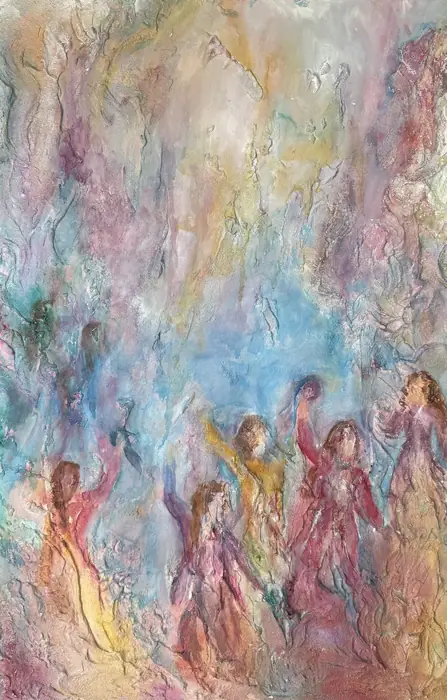
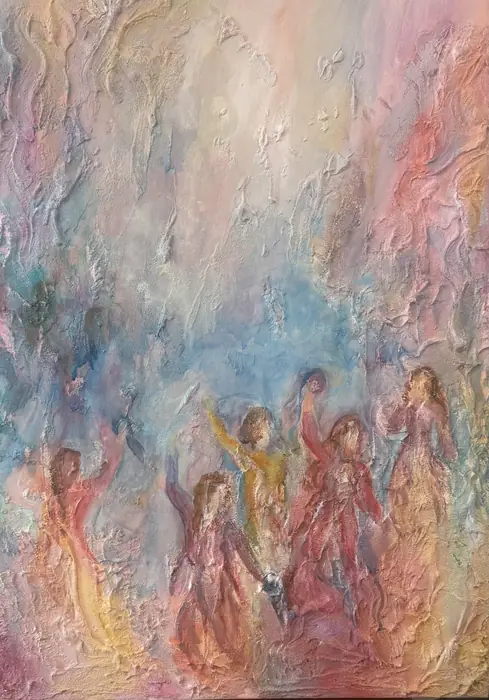
update

diff --git a/index.html b/index.html
@@ -755,8 +755,10 @@ a { color:inherit; }
 /* A wide, landscape plate sitting in the middle of the page and the middle
    of the text, the same treatment as the about-preview strip on the home
    page — the source image is cropped to this ratio, never stretched. */
-.ab-figure { overflow:hidden; aspect-ratio:21/9; max-width:1100px; margin:3.5rem auto; }
-.ab-figure img { width:100%; height:100%; object-fit:cover; display:block; }
+/* No forced crop here — the painting is shown whole, at its own proportions,
+   simply capped so it doesn't overrun the page. */
+.ab-figure { overflow:hidden; max-width:1100px; margin:3.5rem auto; }
+.ab-figure img { width:100%; height:auto; display:block; }
 .ab-foot { padding-bottom:3rem; }
 
 .cblock { padding:5rem var(--pad-x); text-align:center; border-top:1px solid var(--border); }
@@ -780,8 +782,16 @@ a { color:inherit; }
 /* A true standing column, not a capped box — it stretches to match the
    height of the form beside it, so the painting runs the full length of the
    text rather than sitting as a separate, shorter block above it. */
-.cp-art { overflow:hidden; align-self:stretch; }
-.cp-art img { width:100%; height:100%; object-fit:cover; display:block; }
+/* A true standing column, not a capped box — it stretches to match the
+   height of the form beside it, so the painting runs the full length of the
+   text rather than sitting as a separate, shorter block above it. The
+   painting itself is shown whole: object-fit:contain, never cropped. */
+.cp-art {
+  overflow:hidden; align-self:stretch;
+  display:flex; align-items:center; justify-content:center;
+  background:var(--off);
+}
+.cp-art img { width:100%; height:100%; object-fit:contain; display:block; }
 
 /* The rule under the intro. A hairline spanning the form column, separating
    the title from the fields. */
@@ -921,8 +931,6 @@ a { color:inherit; }
 
   .banner-body    { max-width:none; }
 
-  .ab-figure      { aspect-ratio:16/9; }
-
   .contact-page-wrap { grid-template-columns:1fr; gap:2rem; padding:2.5rem var(--pad-x) 4rem; max-width:460px; }
   .cp-art { aspect-ratio:16/9; }
 
@@ -996,7 +1004,7 @@ a { color:inherit; }
 
   .ab-head { padding:3.5rem 1.25rem 0; }
   .ab-body { padding:2.5rem 1.25rem 0; }
-  .ab-figure { aspect-ratio:4/3; margin:2.5rem auto; }
+  .ab-figure { margin:2.5rem auto; }
   .cblock { padding:3.5rem 1.25rem; }
   .clinks { gap:1.6rem 2rem; }
   .cp-submit { align-self:stretch; text-align:center; }
@@ -1409,11 +1417,11 @@ a { color:inherit; }
       id: 'story', label: 'Story', desc: 'Sacred moments in time', cover: 'four-elements',
       paintings: [
         { img: 'four-elements', title: 'Four Elements', medium: 'Pouring · 60×120 cm',      w: 1600, h: 820 , slug: 'four-elements', desc: '' },
-        { img: 'prayer',        title: 'Prayer',        medium: 'Oil on canvas · 70×40 cm', w: 858,  h: 1400 , slug: 'prayer', desc: '' },
+        { img: 'prayer',        title: 'Prayer',        medium: 'Oil on canvas · 70×40 cm', w: 1138, h: 2000 , slug: 'prayer', desc: '' },
         { img: 'splitting-of-the-sea', title: 'The Splitting of the Sea', medium: 'Oil on canvas · 90×60 cm', w: 1966, h: 1325, slug: 'splitting-of-the-sea', desc: '' },
         { img: 'wedding-i',            title: 'Wedding I',                medium: 'Oil on canvas · 60×70 cm', w: 974,  h: 1116, slug: 'wedding-i', desc: '' },
         { img: 'chuppah-ii',           title: 'Chuppah II',               medium: 'Oil on canvas · 90×60 cm', w: 2000, h: 822,  slug: 'chuppah-ii', desc: '' },
-        { img: 'song-of-miriam', title: 'The Song of Miriam', medium: 'Palette knife on canvas', w: 1278, h: 2000, slug: 'song-of-miriam', desc: '' }
+        { img: 'song-of-miriam', title: 'The Song of Miriam', medium: 'Palette knife on canvas', w: 1398, h: 2000, slug: 'song-of-miriam', desc: '' }
       ]
     }
   ];
